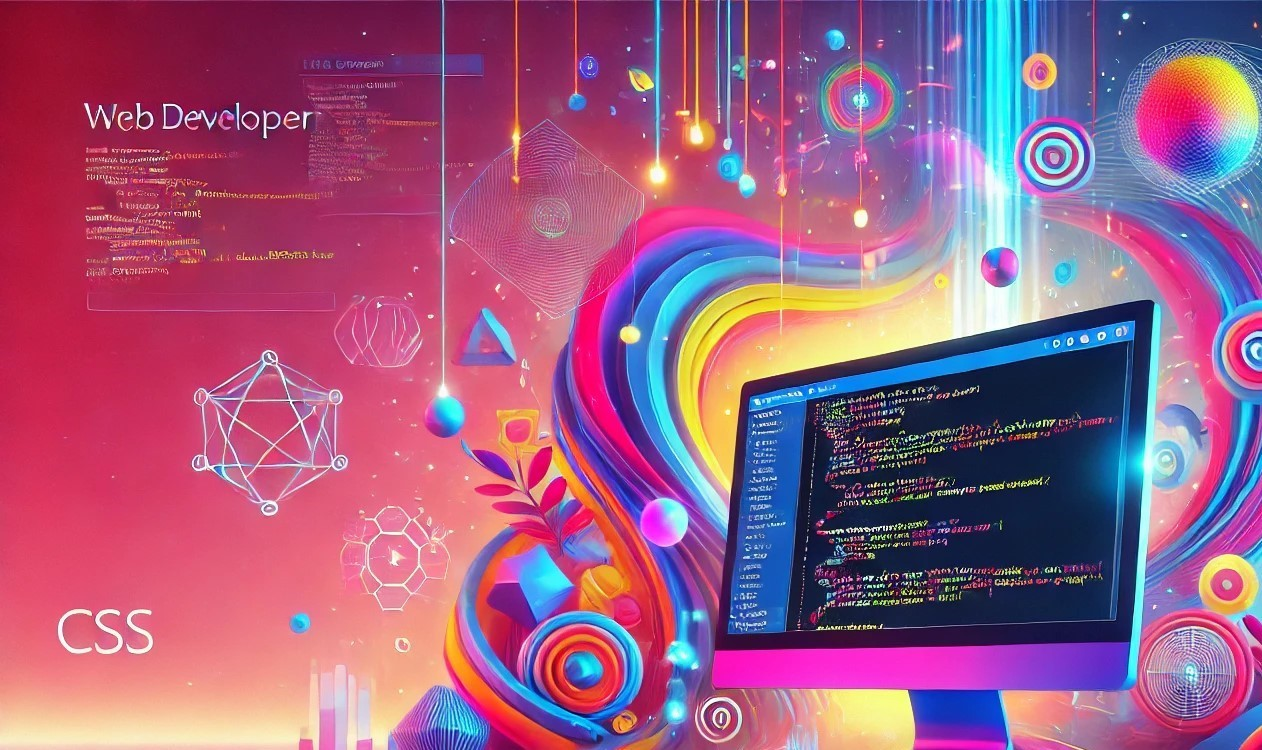
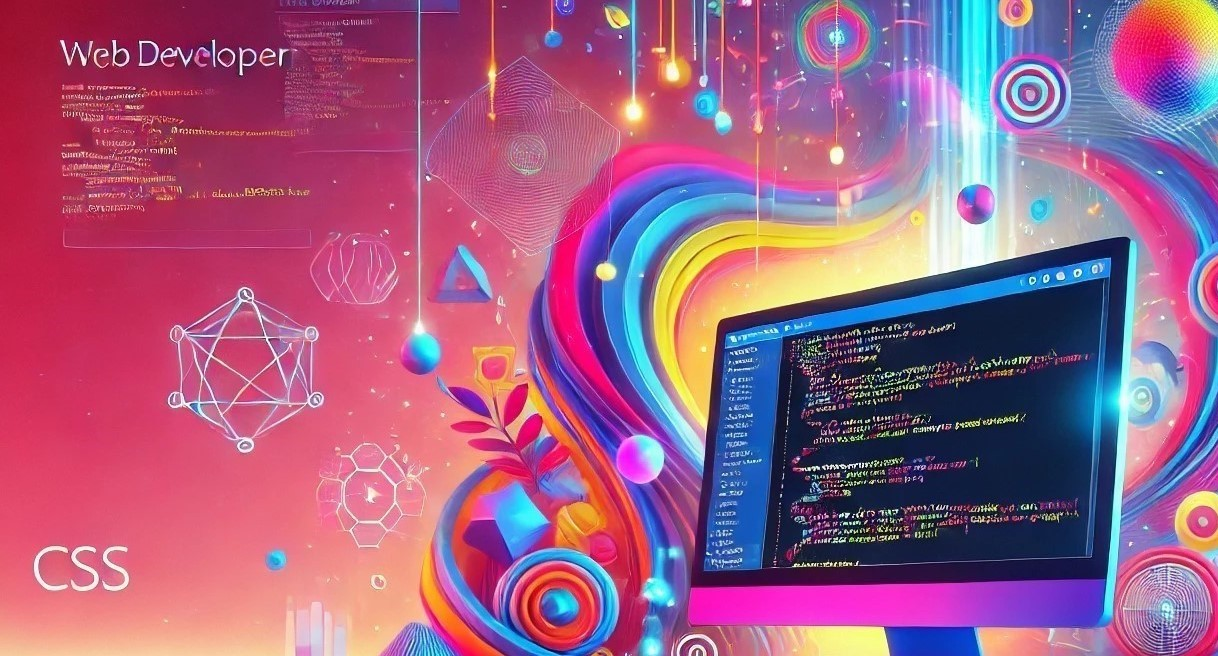
still sorting out shit

diff --git a/css/styles.css b/css/styles.css
@@ -10,6 +10,7 @@ aside {
   margin-left: 0;
   align-items: center;
   border-right: 4px solid var(--line-color);
+  background-color: #e5dfdf;
   position: fixed;
   max-width: 200px;
   height: 100vh;
@@ -38,6 +39,7 @@ aside {
   }
   aside .hero-container {
     margin-left: 200px;
+    width: 100%;
   }
   aside .downwards {
     display: flex;
@@ -169,6 +171,7 @@ main {
   }
   .main-grid .hero-container {
     margin-left: 200px;
+    width: 100%;
   }
   .main-grid .downwards {
     display: flex;
@@ -198,6 +201,7 @@ main {
   flex-direction: column;
   padding: 20px;
   border: 1px solid #ccc;
+  background-color: #fff;
   border-radius: 10px;
   box-shadow: 0 4px 8px rgba(0, 0, 0, 0.1);
   transition: box-shadow 0.5s ease-in-out;
@@ -232,6 +236,7 @@ main {
   padding: 10px;
   border-radius: 8px;
   box-shadow: 0 4px 8px rgba(0, 0, 0, 0.1);
+  background-color: #9d8686;
 }
 
 .form-group {
@@ -278,8 +283,13 @@ button:hover {
 }
 
 .contact-info {
+  background-color: #9d8686;
+  border-radius: 10px;
+  padding: 10px;
   text-align: left;
+  color: #fff;
   margin: 20px;
+  padding-top: 40px;
   max-width: 100vw;
   width: 90%;
 }
@@ -292,6 +302,7 @@ button:hover {
 
 .number a {
   text-decoration: none;
+  font-weight: 600;
   color: black;
 }
 .number a:hover {
@@ -306,6 +317,7 @@ button:hover {
 
 html {
   scroll-behavior: smooth;
+  background-color: #e5dfdf;
 }
 
 body {
@@ -347,10 +359,17 @@ footer {
   --max-w: 100vw;
 }
 
+.hero img {
+  width: 100vw;
+  height: 700px;
+  object-fit: cover;
+}
+
 .hero-container {
   display: flex;
   width: 100%;
-  height: 100vh;
+  height: 700px;
+  object-fit: cover;
   justify-content: center;
   align-items: center;
 }
@@ -378,6 +397,7 @@ footer {
   }
   .hero-container .hero-container {
     margin-left: 200px;
+    width: 100%;
   }
   .hero-container .downwards {
     display: flex;
@@ -400,11 +420,6 @@ footer {
     max-width: 100vw;
     height: auto;
   }
-}
-.hero-container .hero img {
-  height: 100vh;
-  max-height: 1200px;
-  object-fit: cover;
 }
 .hero-container .text-container {
   display: flex;
@@ -552,6 +567,7 @@ footer {
   }
   .container .hero-container {
     margin-left: 200px;
+    width: 100%;
   }
   .container .downwards {
     display: flex;
@@ -612,6 +628,7 @@ footer {
   }
   .nav-container .hero-container {
     margin-left: 200px;
+    width: 100%;
   }
   .nav-container .downwards {
     display: flex;

diff --git a/sass/_main.scss b/sass/_main.scss
@@ -20,6 +20,7 @@ main {
     flex-direction: column;
     padding: 20px;
     border: 1px solid #ccc;
+    background-color: #fff;
     border-radius: 10px;
     box-shadow: 0 4px 8px rgba(0, 0, 0, 0.1);
     transition: box-shadow 0.5s ease-in-out;
@@ -57,6 +58,7 @@ main {
     padding: 10px;
     border-radius: 8px;
     box-shadow: 0 4px 8px rgba(0, 0, 0, 0.1);
+    background-color: #9d8686
 }
 
 .form-group {
@@ -98,8 +100,13 @@ button:hover {
 }
 
 .contact-info {
+    background-color: #9d8686;
+    border-radius: 10px;
+    padding: 10px;
     text-align: left;
+    color: #fff;
     margin: 20px;
+    padding-top: 40px;
     max-width: 100vw;
     width: 90%;
     h2 {
@@ -112,6 +119,7 @@ button:hover {
 .number {
     a {
         text-decoration: none;
+        font-weight: 600;
         color: black;
         &:hover {
             color: var(--line-color);

diff --git a/sass/_hero.scss b/sass/_hero.scss
@@ -1,19 +1,21 @@
 @use 'mixins' as m;
 
+.hero img {
+    width: 100vw;
+    height: 700px;
+    object-fit: cover;
+}
+
 .hero-container {
     display: flex;
-    width: 100%;
-    height: 100vh;
+    width: 100vw;
+    height: 700px;
+    object-fit: cover;
     justify-content: center;
     align-items: center;
     @include m.responsive;
     
-    .hero img {
-        // width: 100%;
-        height: 100vh;
-        max-height: 1200px;
-        object-fit: cover;
-    }
+    
     .text-container {
         display: flex;
         flex-direction: column;

diff --git a/sass/_mixins.scss b/sass/_mixins.scss
@@ -55,13 +55,14 @@
             margin-top: 50px;
         }
         .hero-container {
-            margin-left: 200px;
+            // margin-left: 200px;
+            width: calc(100% -200px);
         }
         .downwards {
             display: flex;
         }
         .hero-img {
-            width: 100%;
+            width: calc(100% - 200px);
         }
         .scheme {
             margin-left: 200px;

diff --git a/sass/_aside.scss b/sass/_aside.scss
@@ -8,6 +8,7 @@ aside {
     margin-left: 0;
     align-items: center;
     border-right: 4px solid var(--line-color);
+    background-color: #e5dfdf;
     position: fixed;
     max-width: 200px;
     height: 100vh;

diff --git a/sass/_layout.scss b/sass/_layout.scss
@@ -8,6 +8,7 @@
 }
 html {
     scroll-behavior: smooth;
+    background-color: #e5dfdf;
 }
 body {
     max-width: var(--max-w);
